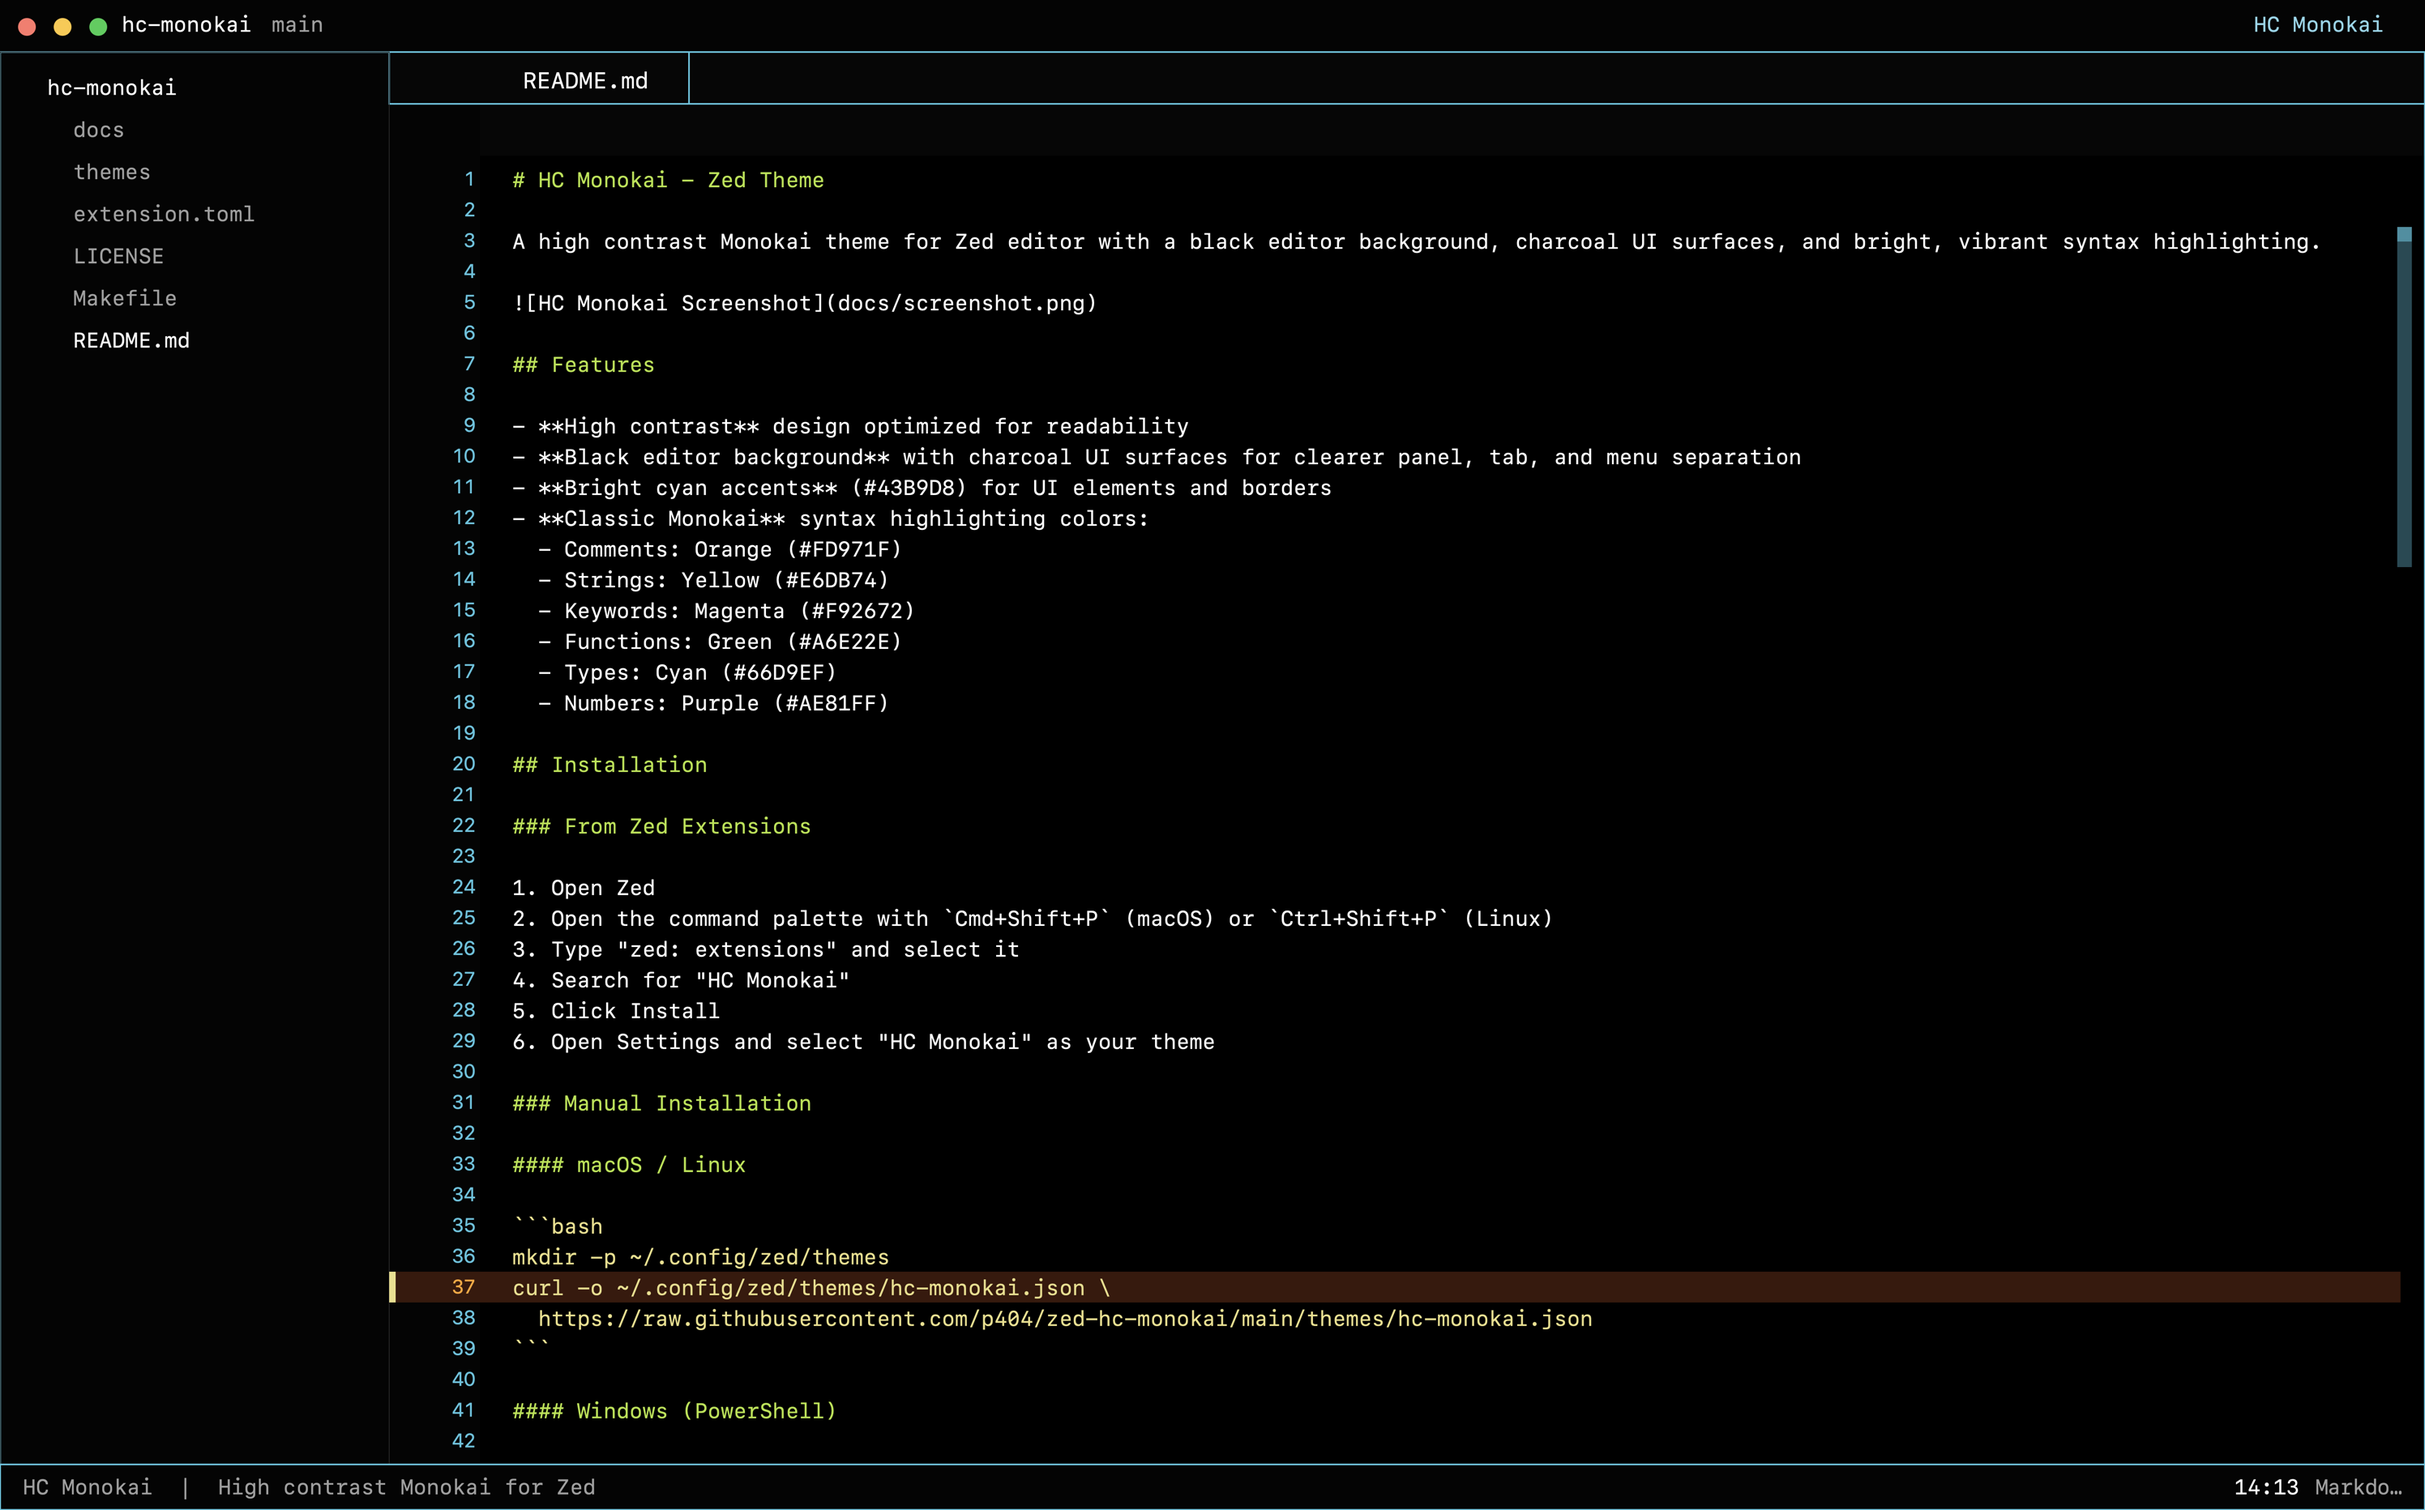
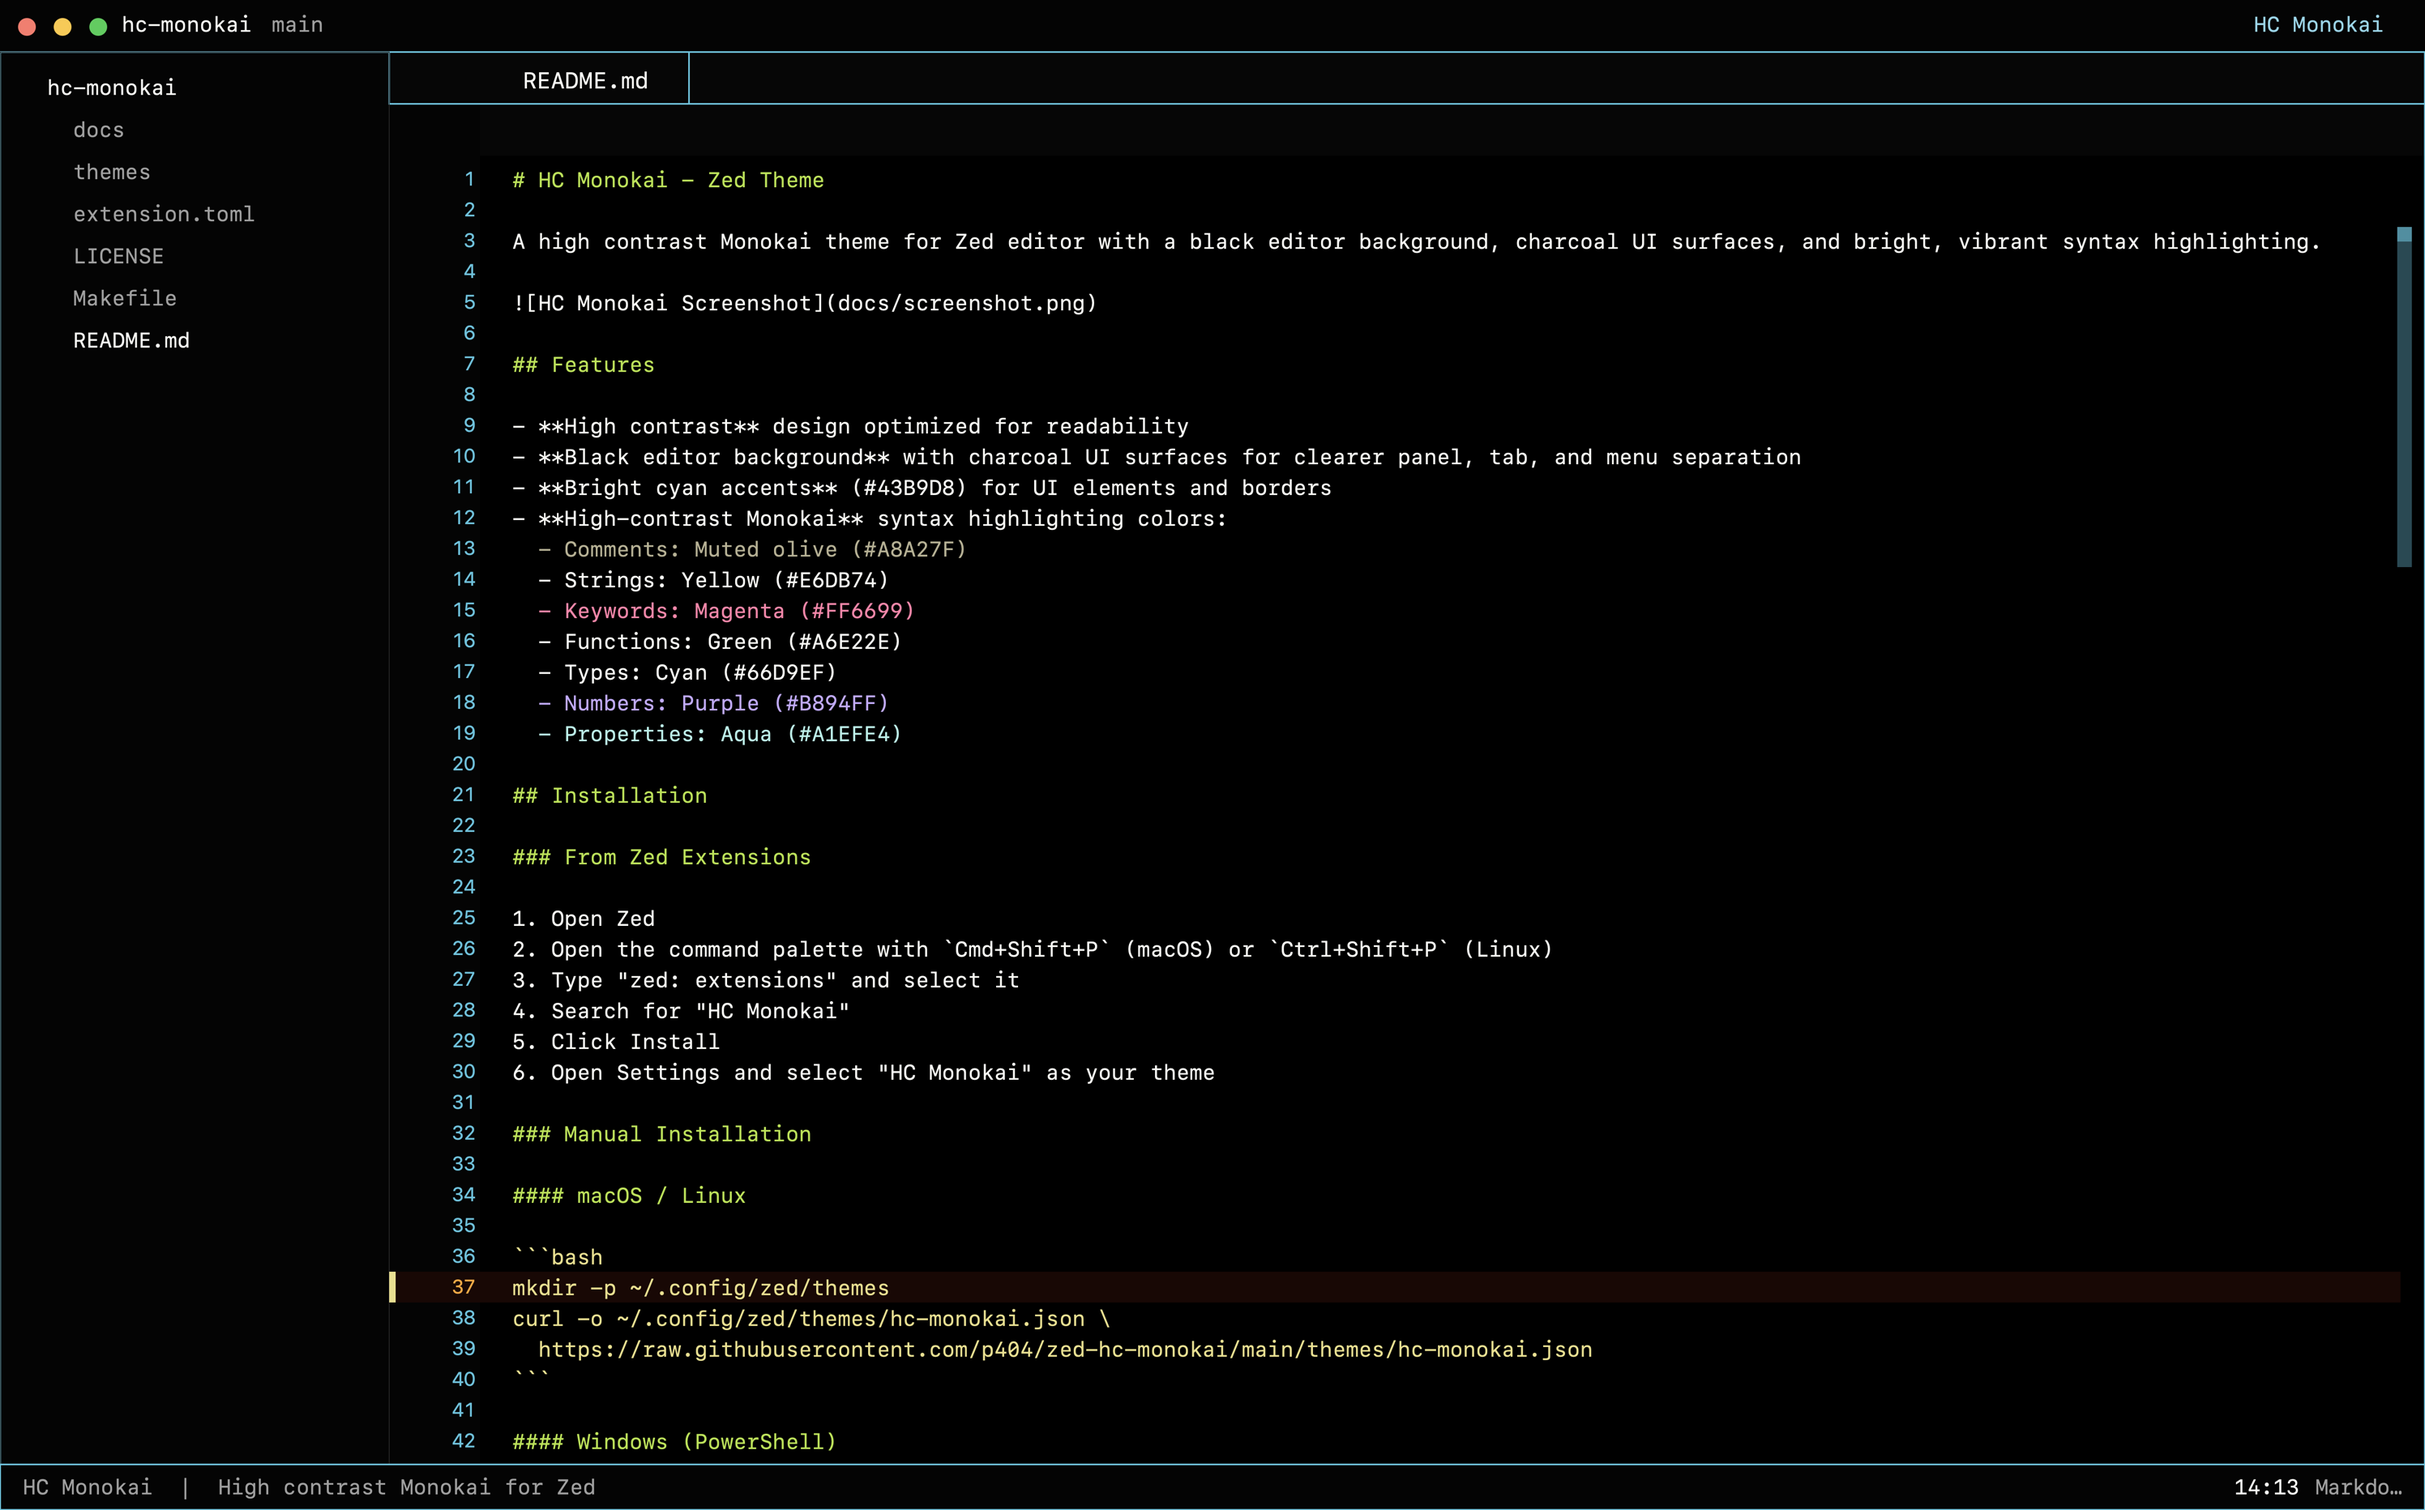
Improve accessible color contrast

diff --git a/README.md b/README.md
@@ -9,13 +9,14 @@ A high contrast Monokai theme for Zed editor with a black editor background, cha
 - **High contrast** design optimized for readability
 - **Black editor background** with charcoal UI surfaces for clearer panel, tab, and menu separation
 - **Bright cyan accents** (#43B9D8) for UI elements and borders
-- **Classic Monokai** syntax highlighting colors:
-  - Comments: Orange (#FD971F)
+- **High-contrast Monokai** syntax highlighting colors:
+  - Comments: Muted olive (#A8A27F)
   - Strings: Yellow (#E6DB74)
-  - Keywords: Magenta (#F92672)
+  - Keywords: Magenta (#FF6699)
   - Functions: Green (#A6E22E)
   - Types: Cyan (#66D9EF)
-  - Numbers: Purple (#AE81FF)
+  - Numbers: Purple (#B894FF)
+  - Properties: Aqua (#A1EFE4)
 
 ## Installation
 
@@ -53,14 +54,15 @@ After installation, open Zed Settings and select "HC Monokai" as your theme.
 | Element | Color | Hex |
 |---------|-------|-----|
 | Background | Black | #000000 |
-| Foreground | White | #FFFFFF |
+| Foreground | Warm off-white | #F8F8F2 |
 | Accent/Border | Cyan | #43B9D8 |
-| Comment | Orange | #FD971F |
+| Comment | Muted olive | #A8A27F |
 | String | Yellow | #E6DB74 |
-| Keyword | Magenta | #F92672 |
+| Keyword | Magenta | #FF6699 |
 | Function | Green | #A6E22E |
 | Type | Cyan | #66D9EF |
-| Number | Purple | #AE81FF |
+| Number | Purple | #B894FF |
+| Property | Aqua | #A1EFE4 |
 | UI Surface | Charcoal | #080808 |
 
 ## Related
